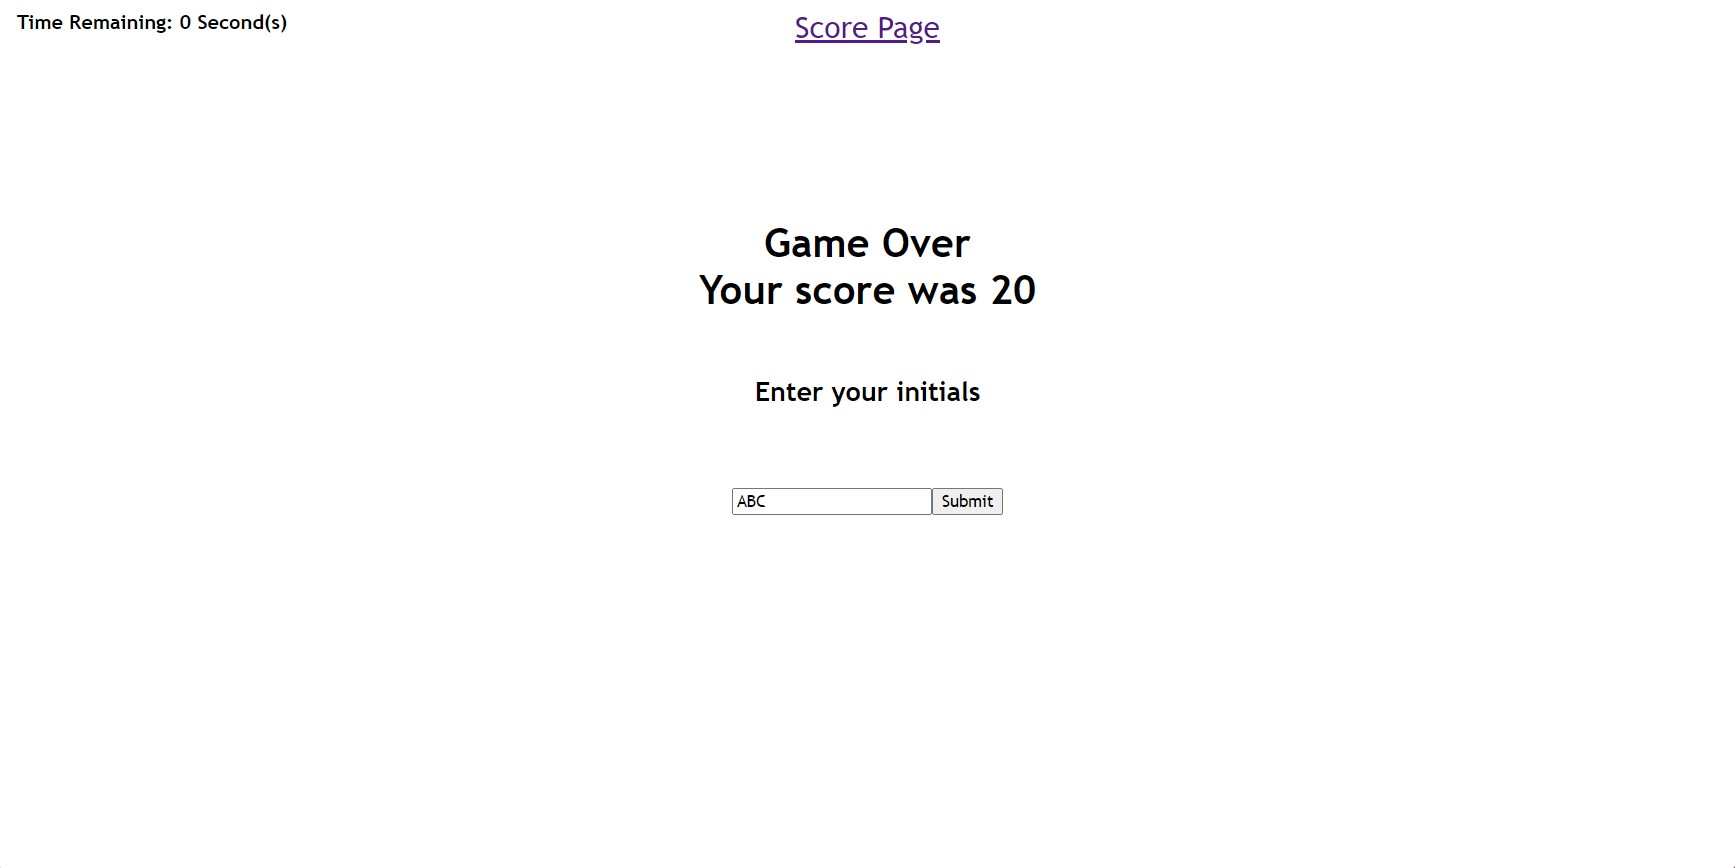
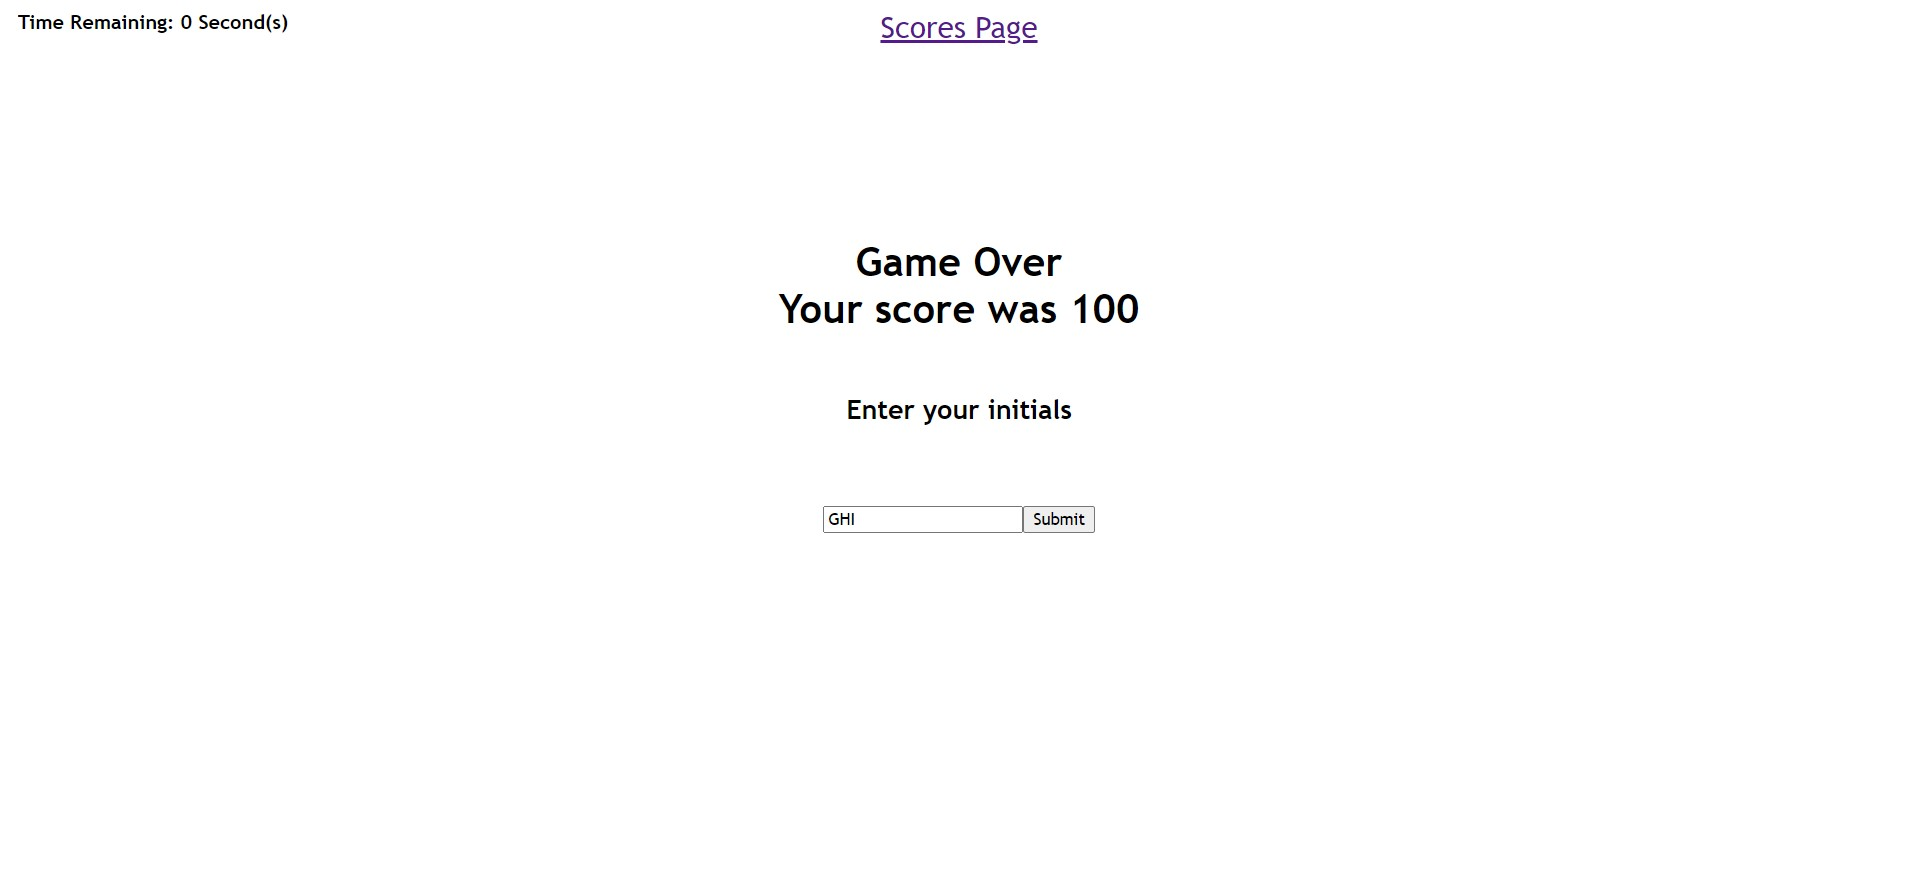
Minor changes to images and README to reflect the ability to store multiple scores

diff --git a/index.html b/index.html
@@ -9,7 +9,7 @@
 </head>
 <body>
 
-<a href="assets/highScorePage.html">Score Page</a>   
+<a href="assets/highScorePage.html">Scores Page</a>   
 <div class="timer">Time Remaining: 30 Second(s)</div> 
 <section class="quizWindow">
     <h1>WILL'S CODING QUIZ <br> CHALLENGE</h1>

diff --git a/README.md b/README.md
@@ -6,7 +6,7 @@ Will's Coding Quiz Challenge is a timed quiz where the user races against the cl
 
 ## Functionality 
 
-The quiz utilizes JavaScript to create a dynamic experience. When the user presses the start button they remain on the page, the question is presented and the timer begins to countdown. As the user hoves over the different answer choices the choice under their cursor is highlighted and whenever the user selects an answer the next question is immediately presented. The HTML is also dynamically updated to reflect whether the answer was correct or incorrect and how much time will be added to or subtracted from the clock. When the user has attempted to answer all 5 questions or the timer hits 0 the user reaches the game over screen where they are given their score and able to enter their initials. When they enter their initials and click submit, they are redirected to the score page displaying this information. Here they can use the hyperlink to redirect back to the quiz or use the clear button to clear the score. Doing so clears the local storage and automatically refreshes the page so that this change is reflected. 
+The quiz utilizes JavaScript to create a dynamic experience. When the user presses the start button they remain on the page, the question is presented and the timer begins to countdown. As the user hoves over the different answer choices the choice under their cursor is highlighted and whenever the user selects an answer the next question is immediately presented. The HTML is also dynamically updated to reflect whether the answer was correct or incorrect and how much time will be added to or subtracted from the clock. When the user has attempted to answer all 5 questions or the timer hits 0 the user reaches the game over screen where they are given their score and able to enter their initials. When they enter their initials and click submit, they are redirected to the score page displaying this information. Multiple scores can be saved at a time and can be cleared at the click of a button. There is also a hyperlink so that the user can navigate back to the home page.
 
 ## Deployment
 
